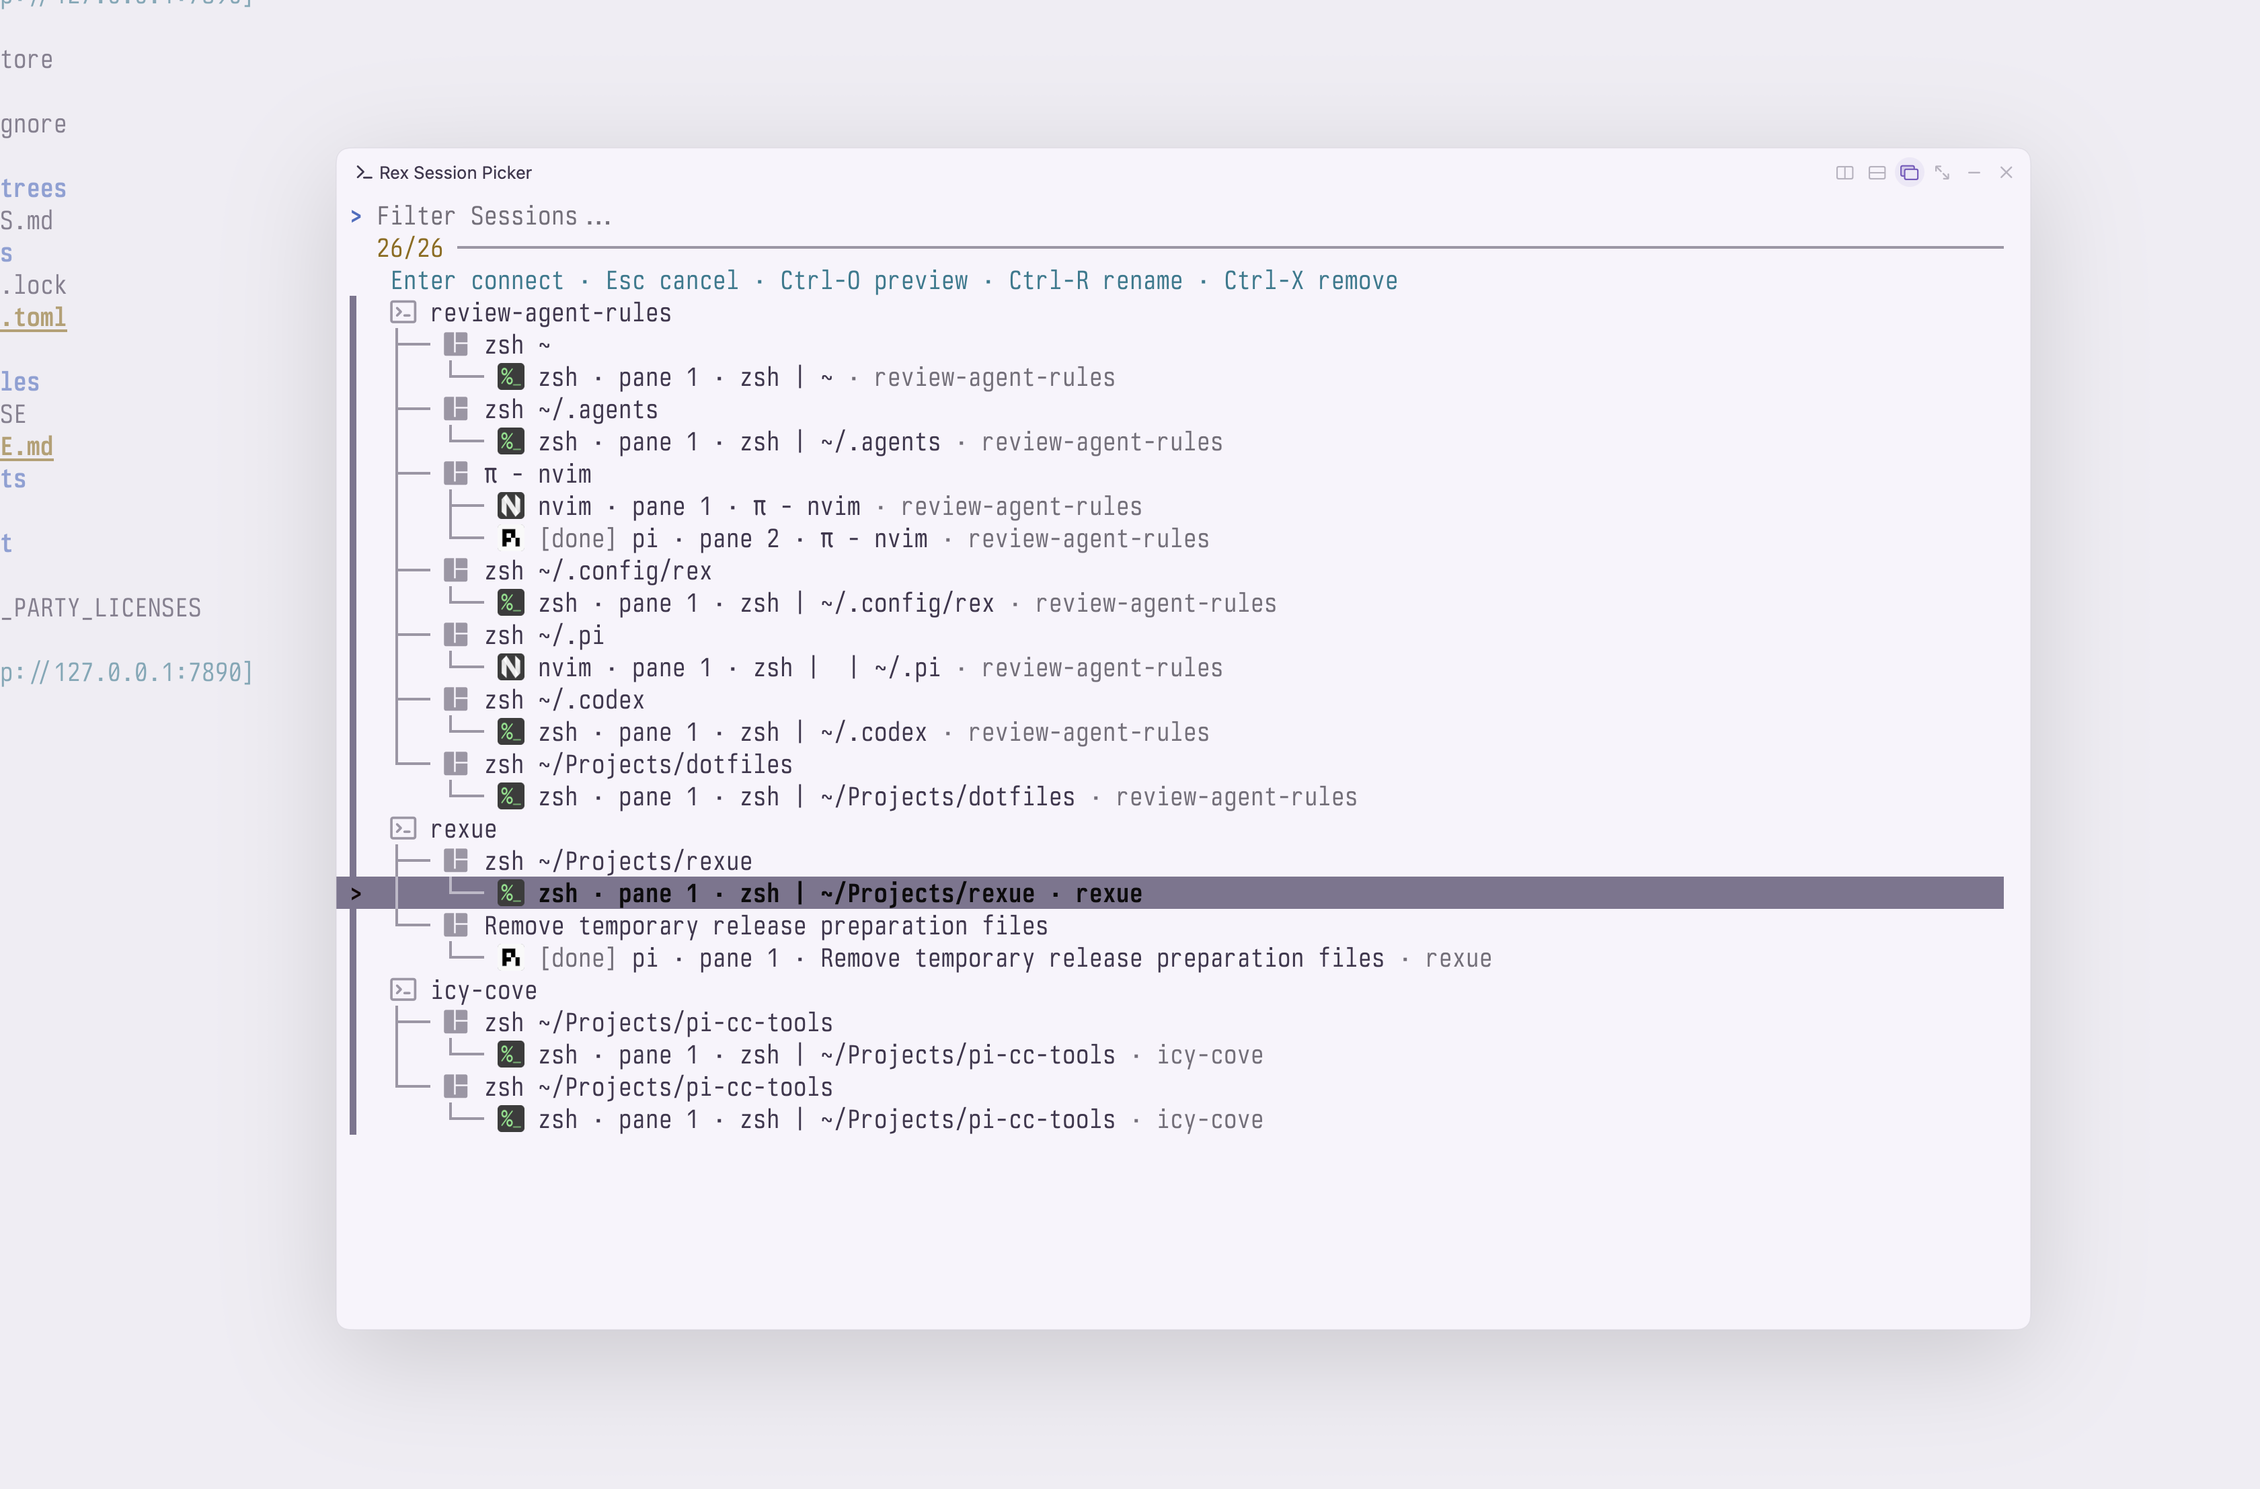
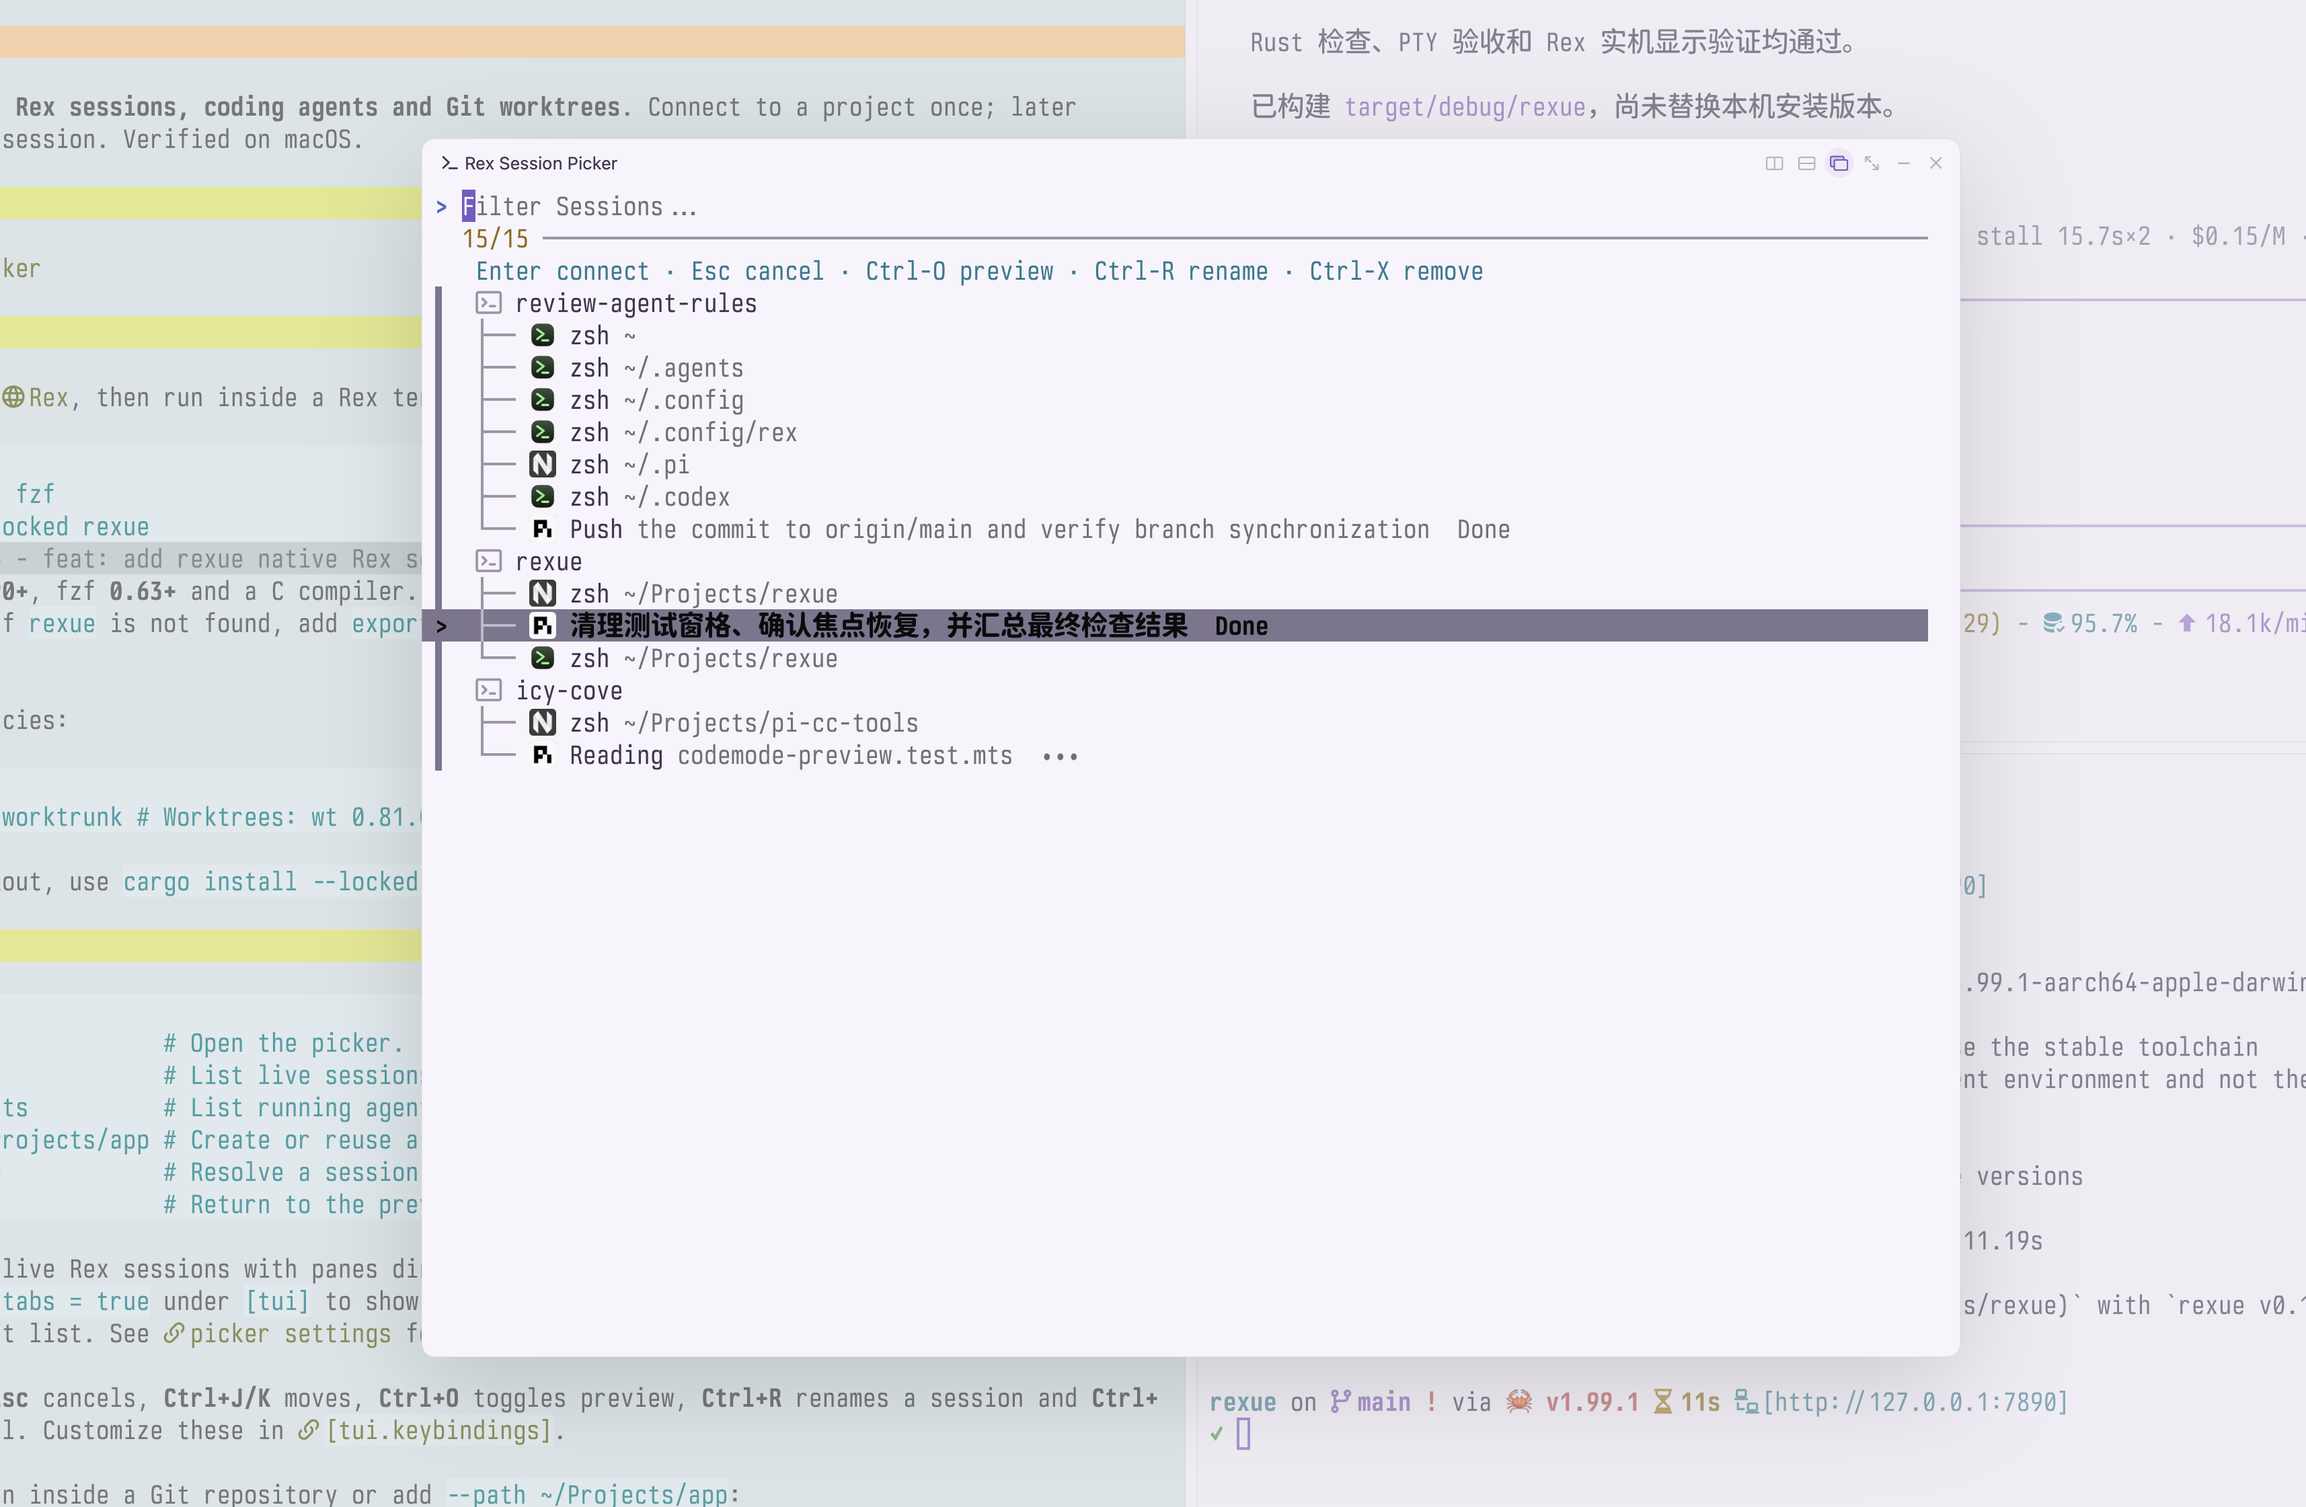
fix(picker): simplify titles and dim trailing details
Unify tab and pane title styling while preserving search metadata, and refresh the README demo screenshot.

diff --git a/src/picker.rs b/src/picker.rs
@@ -1334,7 +1334,7 @@ fn display_icon(
 
 fn display(entry: &Entry, options: &PickerOptions) -> String {
     if entry.window_id().is_some() && entry.block_id().is_none() {
-        return display_tab(&entry.name, !entry.agent_tab_indices.is_empty(), options);
+        return display_tab(&entry.name, options);
     }
     let mut text = String::new();
     if options.show_icons {
@@ -1373,7 +1373,10 @@ fn display(entry: &Entry, options: &PickerOptions) -> String {
         if let Some(alias) = options.aliases.values().find(|a| a.target == entry.name) {
             text.push_str(&format!("\x1b[2m[{}]\x1b[22m ", clean(&alias.alias)));
         }
-        text.push_str(&clean(entry.pane_title.as_deref().unwrap_or(&entry.name)));
+        text.push_str(&match &entry.pane_title {
+            Some(title) => display_title(title),
+            None => clean(&entry.name),
+        });
         if let Some(agent) = &entry.agent {
             let status = match agent.state.as_str() {
                 "working" => "•••",
@@ -1387,24 +1390,27 @@ fn display(entry: &Entry, options: &PickerOptions) -> String {
             }
         }
         if entry.is_session() && entry.tabs.is_empty() {
-            for (index, name) in entry.tab_names.iter().enumerate() {
-                let is_agent = entry.agent_tab_indices.contains(&index);
-                text.push_str(&format!(" [{}]", display_tab(name, is_agent, options)));
+            for name in &entry.tab_names {
+                text.push_str(&format!(" [{}]", display_tab(name, options)));
             }
         }
     }
     text
 }
-fn display_tab(name: &str, is_agent: bool, options: &PickerOptions) -> String {
-    let name = clean(name);
-    let name = if is_agent {
-        name
-    } else {
-        name.replace('|', " ")
-            .split_whitespace()
-            .collect::<Vec<_>>()
-            .join(" ")
-    };
+fn display_title(title: &str) -> String {
+    let title = clean(title)
+        .replace('|', " ")
+        .split_whitespace()
+        .collect::<Vec<_>>()
+        .join(" ");
+    match title.split_once(' ') {
+        Some((command, detail)) => format!("{command} \x1b[2m{detail}\x1b[22m"),
+        None => title,
+    }
+}
+
+fn display_tab(name: &str, options: &PickerOptions) -> String {
+    let name = display_title(name);
     if options.show_icons {
         format!(
             "{}{name}",
@@ -1695,12 +1701,12 @@ mod tests {
         let mut options = PickerOptions::default();
         assert_eq!(
             strip_ansi_escapes::strip_str(display(&entry, &options)),
-            "  project [  zsh ~/Projects/rexue] [  Shell | Agent] [  Fix picker]"
+            "  project [  zsh ~/Projects/rexue] [  Shell Agent] [  Fix picker]"
         );
         options.show_icons = false;
         assert_eq!(
             display(&entry, &options),
-            "project [zsh ~/Projects/rexue] [Shell | Agent] [Fix picker]"
+            "project [zsh \x1b[2m~/Projects/rexue\x1b[22m] [Shell \x1b[2mAgent\x1b[22m] [Fix \x1b[2mpicker\x1b[22m]"
         );
 
         options.show_icons = true;
@@ -1727,6 +1733,27 @@ mod tests {
     }
 
     #[test]
+    fn titles_remove_pipes_and_dim_details_after_the_first_word() {
+        for (title, expected) in [
+            ("", ""),
+            (" |  | ", ""),
+            (" zsh | | ", "zsh"),
+            (
+                " zsh |  | ~/Projects/rexue  ",
+                "zsh \x1b[2m~/Projects/rexue\x1b[22m",
+            ),
+            ("pi task title", "pi \x1b[2mtask title\x1b[22m"),
+            (
+                "\x1b[31m终端\x1b[0m | ~/项目\t\n\0",
+                "终端 \x1b[2m~/项目\x1b[22m",
+            ),
+            ("pi|task||title", "pi \x1b[2mtask title\x1b[22m"),
+        ] {
+            assert_eq!(display_title(title), expected, "{title:?}");
+        }
+    }
+
+    #[test]
     fn row_icons_align_wide_glyphs_and_tabs_without_leaking_controls_or_color() {
         let mut options = PickerOptions {
             icon_width: 2,
@@ -1737,12 +1764,15 @@ mod tests {
         entry.icon = Some("\x1b[31m界\x1b[0m\t\n".into());
         assert_eq!(display(&entry, &options), "\x1b[34m界\x1b[39m  中文项目");
         assert_eq!(
-            display_tab("终端 | ~/项目", false, &options),
-            "\x1b[34m\x1b[39m   终端 ~/项目"
+            display_tab("终端 | ~/项目", &options),
+            "\x1b[34m\x1b[39m   终端 \x1b[2m~/项目\x1b[22m"
         );
         options.show_icons = false;
         assert_eq!(display(&entry, &options), "中文项目");
-        assert_eq!(display_tab("终端 | ~/项目", false, &options), "终端 ~/项目");
+        assert_eq!(
+            display_tab("终端 | ~/项目", &options),
+            "终端 \x1b[2m~/项目\x1b[22m"
+        );
     }
 
     #[test]
@@ -1819,8 +1849,10 @@ mod tests {
             show_icons: false,
             ..Default::default()
         };
-        let text = strip_ansi_escapes::strip_str(display(&entry, &options));
-        assert_eq!(text, "相同的 | pane 标题  Blocked");
+        assert_eq!(
+            display(&entry, &options),
+            "相同的 \x1b[2mpane 标题\x1b[22m  \x1b[2mBlocked\x1b[22m"
+        );
         assert_eq!(entry.target(), "block:second");
         assert!(entry.display_name().starts_with(&session));
     }
@@ -1886,7 +1918,7 @@ mod tests {
         assert_eq!(catalog.entries, vec![ids[0], ids[2], ids[1]]);
         let state = Mutex::new(catalog);
         let text = String::from_utf8(rows(&state, "").unwrap()).unwrap();
-        assert!(text.contains("\tSame | title  \x1b[2m•••\x1b[22m\0"));
+        assert!(text.contains("\tSame \x1b[2mtitle\x1b[22m  \x1b[2m•••\x1b[22m\0"));
         assert!(!text.contains('\n'));
         assert!(text.starts_with(&format!("{}\tproject\tproject\0", ids[0])));
         let filtered = String::from_utf8(rows(&state, "blocked").unwrap()).unwrap();
@@ -1936,9 +1968,9 @@ mod tests {
         assert_eq!(visible[0], "  project");
         assert_eq!(visible[1], "├──   Shell cwd");
         assert!(visible[2].starts_with("│   └── "));
-        assert_eq!(visible[3], "└──   Agents | task");
-        assert_eq!(visible[4], "    └──   Own | task  •••");
-        assert_eq!(visible[2], "│   └──   zsh | cwd");
+        assert_eq!(visible[3], "└──   Agents task");
+        assert_eq!(visible[4], "    └──   Own task  •••");
+        assert_eq!(visible[2], "│   └──   zsh cwd");
         for (row, expected) in fields.iter().zip([
             "session:full",
             "window:first",
@@ -1962,7 +1994,7 @@ mod tests {
         assert!(filtered.contains("[working]"));
         assert!(filtered.contains("Own | task"));
         let numbered = String::from_utf8(rows(&state, "#").unwrap()).unwrap();
-        assert!(strip_ansi_escapes::strip_str(numbered).contains("#4 └──   Agents | task"));
+        assert!(strip_ansi_escapes::strip_str(numbered).contains("#4 └──   Agents task"));
     }
 
     #[test]

diff --git a/scripts/pty_smoke.py b/scripts/pty_smoke.py
@@ -383,7 +383,7 @@ else:
         def panes_without_tabs(s):
             s.resize(240, 30)
             s.expect('4/4')
-            s.expect('├── Shell |  | title')
+            s.expect('├── Shell title')
             s.expect('├── Agent title  •••')
             s.expect('└── Other pane title  Blocked')
             s.expect('AGENT_PREVIEW_block:shell')

diff --git a/docs/CONFIGURATION.md b/docs/CONFIGURATION.md
@@ -55,7 +55,7 @@ An empty or failed worktree list keeps the picker open with `Not a Git repositor
 
 The main picker and `list` show live sessions only. Session rows default to a session → pane tree, keeping panes from all tabs in their original order; Enter selects that exact target. Set `[tui].show_tabs = true` for a session → tab → pane tree. `picker --agents` stays flat. Rename and session removal apply only to roots. Pane rows in both the tree and `picker --agents` show their own terminal title, with agent state after the title. Session, app, pane number and tab context remain searchable.
 
-Tabs use a custom name, otherwise the focused terminal's title, then its pane label. Live agent titles are appended once per tab; an unnamed agent tab without a title uses its app name. Ordinary tab titles replace `|` separators with spaces and collapse adjacent spaces. Pane titles preserve those separators and spaces; unavailable titles, whitespace-only titles and titles without visible non-whitespace content after display cleaning fall back to the foreground program name, then the pane label. Program names use the script, argv0 or executable name, in that order. Session rows default to the terminal icon (``); tabs share the Rex icon (``), regardless of the program or agents inside. Custom session/source icons still take precedence. In Rex, pane rows use Rex’s bundled artwork for their actual foreground program or agent (for example Neovim, Pi, Claude and Codex). Zsh and unknown programs use Rex’s default terminal artwork. `NO_COLOR` and other terminals use the existing character fallback for panes. `show_icons = false` disables both image and character icons. List rows use spaced icons, plain tab titles and a theme-aware highlight across the current row. The fzf layout is retained; content and layout differences from Rex's native picker are accepted. Both pickers and their dialogs default to fzf’s 16-color scheme, using the terminal palette so colors follow live dark/light theme changes. Custom `--color` and `--no-color` settings are inherited from `FZF_DEFAULT_OPTS_FILE`, then `FZF_DEFAULT_OPTS` in fzf’s usual order. Selected-row colors and attributes follow that scheme without Rexue overrides; `NO_COLOR` keeps fzf’s monochrome default. Other global fzf options are ignored to preserve the picker’s input/output protocol and configured actions. Tree connectors, aliases, worktree paths and agent states are subdued; configured icon colors remain in use for character fallbacks. Pane rows omit the app/pane-number prefix and session suffix from their visible title. `working` appears as `•••`, `blocked` as `Blocked`, `done` as `Done`, and `error` as `Failed`; idle/running adds no badge. Search uses both the complete original name and pane title. Long rows keep their beginning and use an ellipsis. Native rounded selection backgrounds, proportional typography, right-aligned status pills, elapsed status time and the current-pane checkmark are not reproduced by the current fzf renderer. Terminal fonts and cell geometry determine the exact appearance.
+Tabs use a custom name, otherwise the focused terminal's title, then its pane label. Live agent titles are appended once per tab; an unnamed agent tab without a title uses its app name. Tab and pane titles replace `|` separators with spaces and collapse adjacent spaces. Their first word stays at normal brightness; the remaining text is dimmed. Unavailable pane titles, whitespace-only titles and titles without visible non-whitespace content after display cleaning fall back to the foreground program name, then the pane label. Program names use the script, argv0 or executable name, in that order. Session rows default to the terminal icon (``); tabs share the Rex icon (``), regardless of the program or agents inside. Custom session/source icons still take precedence. In Rex, pane rows use Rex’s bundled artwork for their actual foreground program or agent (for example Neovim, Pi, Claude and Codex). Zsh and unknown programs use Rex’s default terminal artwork. `NO_COLOR` and other terminals use the existing character fallback for panes. `show_icons = false` disables both image and character icons. List rows use spaced icons and a theme-aware highlight across the current row. The fzf layout is retained; content and layout differences from Rex's native picker are accepted. Both pickers and their dialogs default to fzf’s 16-color scheme, using the terminal palette so colors follow live dark/light theme changes. Custom `--color` and `--no-color` settings are inherited from `FZF_DEFAULT_OPTS_FILE`, then `FZF_DEFAULT_OPTS` in fzf’s usual order. Selected-row colors and attributes follow that scheme without Rexue overrides; `NO_COLOR` keeps fzf’s monochrome default. Other global fzf options are ignored to preserve the picker’s input/output protocol and configured actions. Tree connectors, aliases, worktree paths and agent states are subdued; configured icon colors remain in use for character fallbacks. Pane rows omit the app/pane-number prefix and session suffix from their visible title. `working` appears as `•••`, `blocked` as `Blocked`, `done` as `Done`, and `error` as `Failed`; idle/running adds no badge. Search uses both the complete original name and pane title. Long rows keep their beginning and use an ellipsis. Native rounded selection backgrounds, proportional typography, right-aligned status pills, elapsed status time and the current-pane checkmark are not reproduced by the current fzf renderer. Terminal fonts and cell geometry determine the exact appearance.
 
 With an empty query, initial focus selects the current pane, then its tab or session. `--focus-pane BLOCK_ID` preserves a shortcut's invoking pane; legacy floating shortcuts select their current tab. A floating picker excludes its own temporary pane. The floating shortcut keeps one session picker per tab: invoking it again focuses the existing picker; closing it permits reopening. Worktree pickers select the checkout containing the current directory or `--path`, including subdirectories and symlinks, otherwise the first row. Initial focus applies once; a prefilled query keeps normal search ordering.
 
